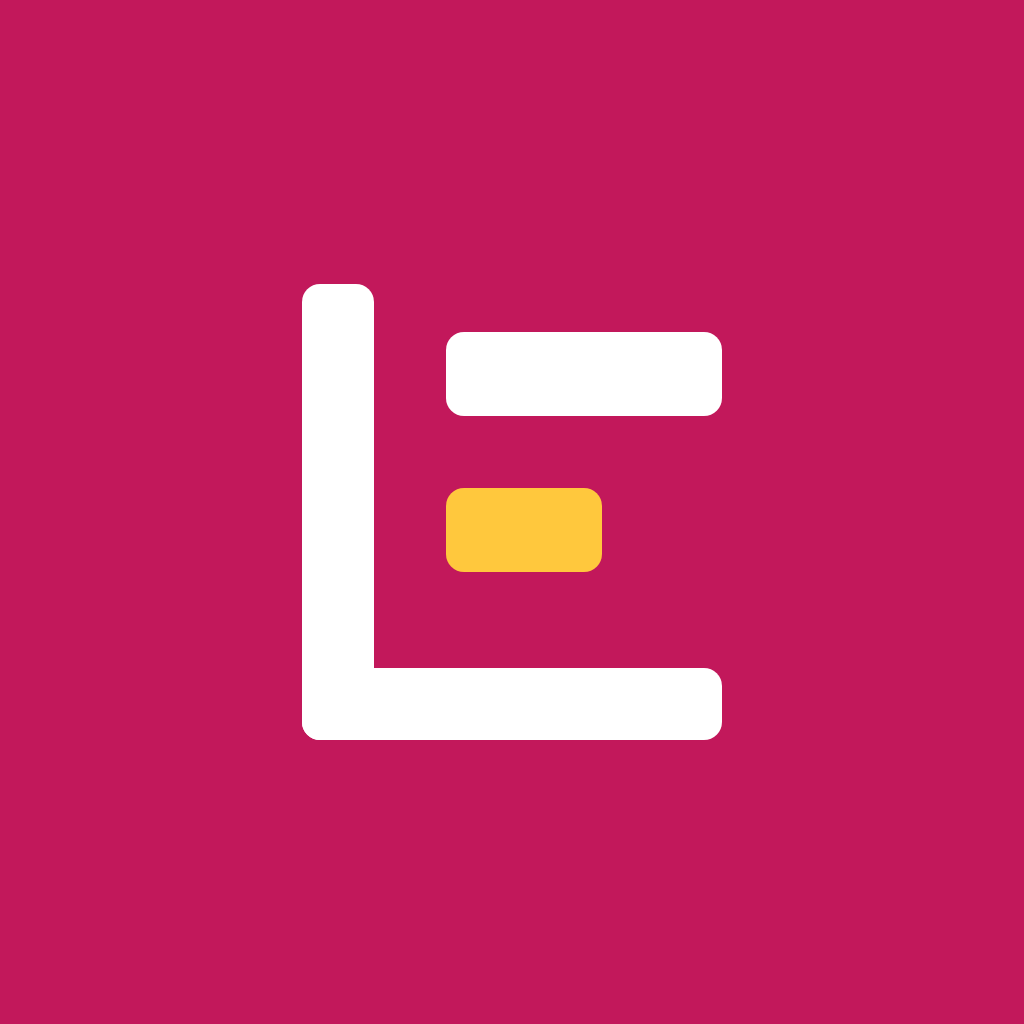
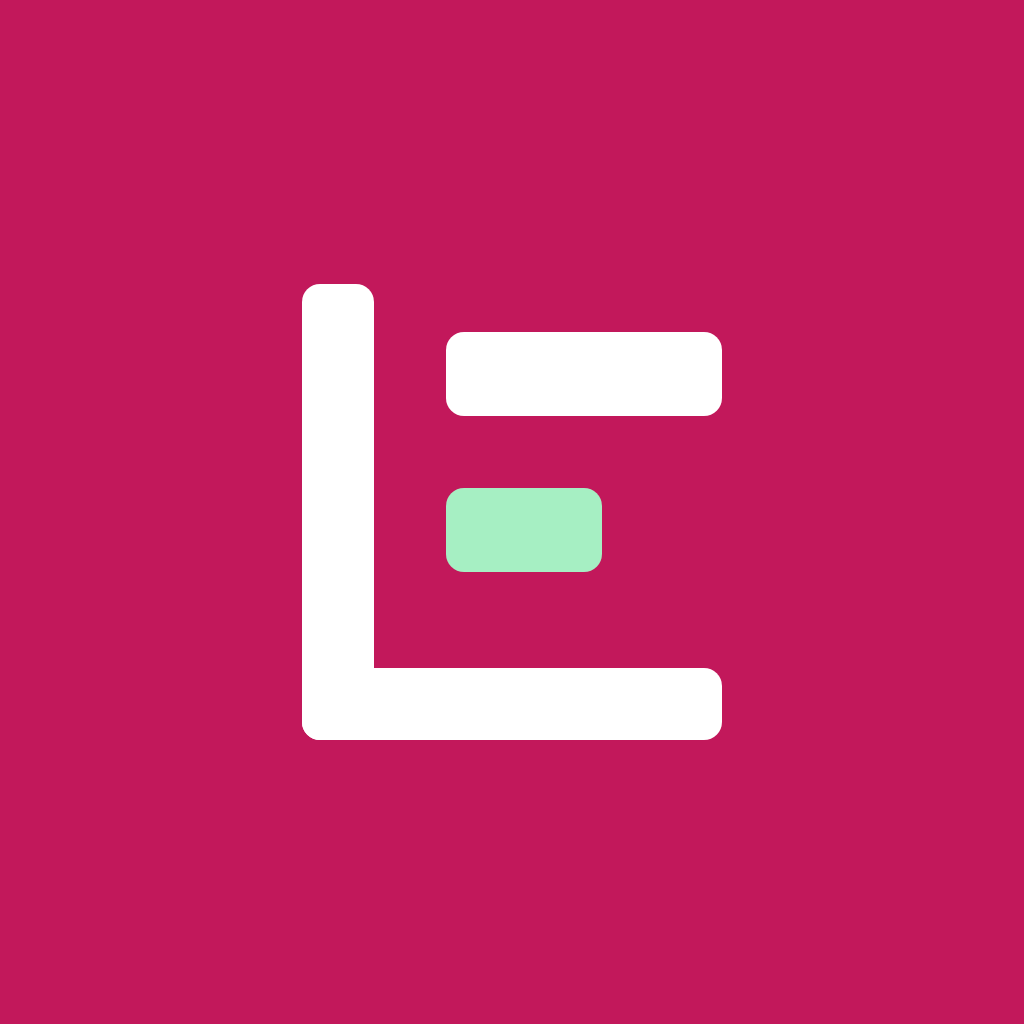
Replace yellow with green credit bar and soft rose header rule
Claude-Session: https://claude.ai/code/session_017CjqXZ4m4gC4wJxrAEAVJX

Changed region(s): [[0.4375, 0.4688, 0.5938, 0.5625]]

diff --git a/e2e/branding.spec.js b/e2e/branding.spec.js
@@ -104,8 +104,8 @@ for (const scheme of ['light', 'dark']) {
 }
 
 const PALETTE = {
-  light: { primary: 'rgb(194, 24, 91)', bg: 'rgb(255, 247, 250)', accent: 'rgb(255, 200, 61)' },
-  dark: { primary: 'rgb(255, 143, 184)', bg: 'rgb(28, 15, 22)', accent: 'rgb(255, 210, 94)' },
+  light: { primary: 'rgb(194, 24, 91)', bg: 'rgb(255, 247, 250)', rose: 'rgb(240, 163, 195)' },
+  dark: { primary: 'rgb(255, 143, 184)', bg: 'rgb(28, 15, 22)', rose: 'rgb(138, 58, 94)' },
 };
 for (const scheme of ['light', 'dark']) {
   test.describe(`${scheme} pink palette`, () => {
@@ -124,7 +124,7 @@ for (const scheme of ['light', 'dark']) {
       );
     });
 
-    test('"code sent" notice is green and the header has a yellow rule', async ({ page }) => {
+    test('"code sent" notice is green and the header has a rose rule', async ({ page }) => {
       await page.goto('/login');
       const phone = uniquePhone();
       await requestCodeFor(page, phone);
@@ -141,9 +141,7 @@ for (const scheme of ['light', 'dark']) {
       await page.getByRole('button', { name: 'Sign in' }).click();
       const header = page.getByRole('banner');
       await expect(header).toBeVisible();
-      expect(await header.evaluate((el) => getComputedStyle(el).borderBottomColor)).toBe(
-        want.accent,
-      );
+      expect(await header.evaluate((el) => getComputedStyle(el).borderBottomColor)).toBe(want.rose);
     });
   });
 }

diff --git a/client/src/styles.css b/client/src/styles.css
@@ -15,11 +15,11 @@
   --radius: 8px;
   --tap: 48px; /* minimum touch target height (Apple and Google both ask for 44-48) */
 
-  /* Palette: pink (brand), green (credit, success), yellow (highlight), white. */
+  /* Palette: pink (brand), green (credit, success), soft rose (dividers), white. */
   --primary: #c2185b; /* ledger pink */
   --primary-hover: #a8124c;
   --on-primary: #ffffff;
-  --accent: #ffc83d; /* credit yellow, decoration only */
+  --rose: #f0a3c3; /* soft rose, decoration only */
   --bg: #fff7fa; /* blush white */
   --surface: #ffffff;
   --text: #2b1020;
@@ -42,7 +42,7 @@
     --primary: #ff8fb8;
     --primary-hover: #ffb3d0;
     --on-primary: #3a0a1f;
-    --accent: #ffd25e;
+    --rose: #8a3a5e;
     --bg: #1c0f16;
     --surface: #2a1822;
     --text: #fbeaf1;
@@ -259,9 +259,9 @@ button.link:hover:not(:disabled) {
     max(1rem, env(safe-area-inset-left));
 }
 
-/* Thin yellow rule under the header, the one place the accent colour shows. */
+/* Thin soft-rose rule under the header. */
 .topbar-wrap {
-  border-bottom: 3px solid var(--accent);
+  border-bottom: 3px solid var(--rose);
 }
 
 .brand-link {

diff --git a/client/test/contrast.test.js b/client/test/contrast.test.js
@@ -57,18 +57,18 @@ function hue(hex) {
   return (h * 60 + 360) % 360;
 }
 
-// The brand direction: pink UI, green for credit/success, yellow highlight.
+// The brand direction: pink UI, green for credit/success, soft rose dividers.
 describe.each([
   ['light', light],
   ['dark', dark],
 ])('%s theme palette', (_name, t) => {
-  it('is pink, green and yellow', () => {
+  it('is pink, green and rose', () => {
     expect(hue(t.primary)).toBeGreaterThanOrEqual(325);
     expect(hue(t.primary)).toBeLessThanOrEqual(350);
     expect(hue(t['good-text'])).toBeGreaterThanOrEqual(120);
     expect(hue(t['good-text'])).toBeLessThanOrEqual(160);
-    expect(hue(t.accent)).toBeGreaterThanOrEqual(38);
-    expect(hue(t.accent)).toBeLessThanOrEqual(52);
+    expect(hue(t.rose)).toBeGreaterThanOrEqual(325);
+    expect(hue(t.rose)).toBeLessThanOrEqual(350);
     expect(hue(t.bg)).toBeGreaterThanOrEqual(325); // pink-tinted background
   });
 });

diff --git a/client/test/brandAssets.test.js b/client/test/brandAssets.test.js
@@ -61,10 +61,10 @@ describe('brand colours', () => {
   const [lightBlock] = css.match(/:root\s*\{[\s\S]*?\n\}/);
   const [darkBlock] = css.match(/@media \(prefers-color-scheme: dark\)\s*\{[\s\S]*?\n\}\n/);
 
-  it('light logos use the primary pink for the tile and yellow for the credit bar', () => {
+  it('light logos use the primary pink for the tile and mint green for the credit bar', () => {
     const svg = read('public/brand/logo.svg').toLowerCase();
     expect(svg).toContain(`rx="14" fill="${token('primary', lightBlock)}"`);
-    expect(svg).toContain('#ffc83d');
+    expect(svg).toContain('#a6efc3');
   });
 
   it('dark logos use a light tile with the light-theme pink bars', () => {

diff --git a/SPEC.md b/SPEC.md
@@ -106,10 +106,10 @@ React web app (Vite)  --JSON-->  Node API (Express)  --code-->   SMS provider (c
 
 ## Branding
 
-The product is called **Ledgerly**. The logo is a ledger mark (a vertical rule, a longer debit bar, a shorter yellow credit bar and a total line, which also reads as an L) next to the wordmark in Inter SemiBold, outlined so the SVGs need no fonts.
+The product is called **Ledgerly**. The logo is a ledger mark (a vertical rule, a longer debit bar, a shorter green credit bar and a total line, which also reads as an L) next to the wordmark in Inter SemiBold, outlined so the SVGs need no fonts.
 
 - **Files:** `client/public/brand/` holds the lockup and the mark, each in light and dark, plus the favicon, `apple-touch-icon.png` and the PWA icons. `client/assets/` holds the Capacitor sources: `icon-only`, `icon-foreground` and `icon-background` (1024 px) and `splash` and `splash-dark` (2732 px). A preview is in `docs/brand/logo-preview.png`.
-- **Colour:** a pink UI with green and yellow accents on white. Light theme: ledger pink `#c2185b` (primary, white text on it), blush white `#fff7fa` background, plum ink `#2b1020` text, credit green `#145c33` on `#e1f5e8` (success and credit), credit yellow `#ffc83d` (decoration only, such as the header rule and the credit bar in the logo). Dark theme: soft pink `#ff8fb8` on deep plum `#1c0f16`, with surfaces `#2a1822` and text `#fbeaf1`. The dark theme follows the device setting. Logo, icons and splash are generated from the palette by `npm run brand`.
+- **Colour:** a pink UI with green and soft rose accents on white. Light theme: ledger pink `#c2185b` (primary, white text on it), blush white `#fff7fa` background, plum ink `#2b1020` text, credit green `#145c33` on `#e1f5e8` (success and credit), mint `#a6efc3` for the credit bar in the logo (dark logo: forest `#1a7a46`), and soft rose `#f0a3c3` for the header rule (decoration only). Dark theme: soft pink `#ff8fb8` on deep plum `#1c0f16`, with surfaces `#2a1822` and text `#fbeaf1`. The dark theme follows the device setting. Logo, icons and splash are generated from the palette by `npm run brand`.
 - **Type:** Inter if installed, else the system font; no web font is downloaded.
 - **Accessibility:** text and controls meet WCAG AA (4.5:1 text, 3:1 control outlines), buttons are at least 48 px tall, the logo has the alt text "Ledgerly", and focus rings are always visible. Contrast ratios of the colour tokens are checked by tests.
 - **Where it shows:** browser tab title and icon, sign-in screen, the header of every signed-in page, and the SMS text ("Your Ledgerly code is ...").
@@ -194,4 +194,4 @@ The build can start without these answers; each has a default assumed in bracket
 | 2026-11-16 | 0.2 | SMS login built (AUTH-1 to AUTH-5). Added `GET /api/auth/me`, the `AUTH_SECRET` setting and the specific rate limits; clarified 429 and lockout behaviour. |
 | 2026-11-16 | 0.3 | Login UI made mobile first (touch targets, numeric keypad, SMS autofill); web plus iOS and Android via Capacitor recorded as the platform plan; testing rule: UI, client and server tests for every feature. |
 | 2026-11-16 | 0.4 | Product named Ledgerly. Added the Branding section (logo, palette, icons, accessibility), the web app manifest, and icon and splash sources for the Capacitor wrapper. |
-| 2026-11-16 | 0.5 | Rebranded to a pink palette (pink, green, yellow, white) with a matching dark theme, requested by the manager. New logo colours, icons, splash and favicon; no layout or behaviour changes. |
+| 2026-11-16 | 0.5 | Rebranded to a pink palette (pink, green, white) with a matching dark theme, requested by the manager. New logo colours, icons, splash and favicon; no layout or behaviour changes. |

diff --git a/README.md b/README.md
@@ -62,7 +62,7 @@ Things worth trying:
 - **Sign-in screen:** http://localhost:5173/login (sign out first if you are signed in) shows the logo, the tagline, the browser tab title and the tab icon. After signing in, the logo is in the header of the home page.
 - **Dark mode:** switch your computer to dark mode, or in Chrome press F12, open the three-dot menu, then **More tools**, **Rendering**, and set _Emulate CSS prefers-color-scheme_ to dark. The logo and colours switch by themselves (pink on blush white by day, soft pink on deep plum at night).
 - **Phone size:** in Chrome press F12, then Ctrl+Shift+M (Cmd+Shift+M on Mac), and pick a phone such as iPhone SE or iPhone 14.
-- **Green and yellow:** after you click **Send code**, the "We sent a code" notice is green. Once signed in, a thin yellow line runs under the header.
+- **Green and rose:** after you click **Send code**, the "We sent a code" notice is green. Once signed in, a thin soft-rose line runs under the header. The logo's credit bar is green.
 - Logo files are in `client/public/brand/`; a preview sheet is in [docs/brand/logo-preview.png](docs/brand/logo-preview.png). Colours and type are tokens at the top of `client/src/styles.css`.
 - **Changing the colours:** edit those tokens and the palette at the top of `scripts/build-brand.mjs`, then run `npm run brand` to rebuild the logos, icons and splash images.
 
